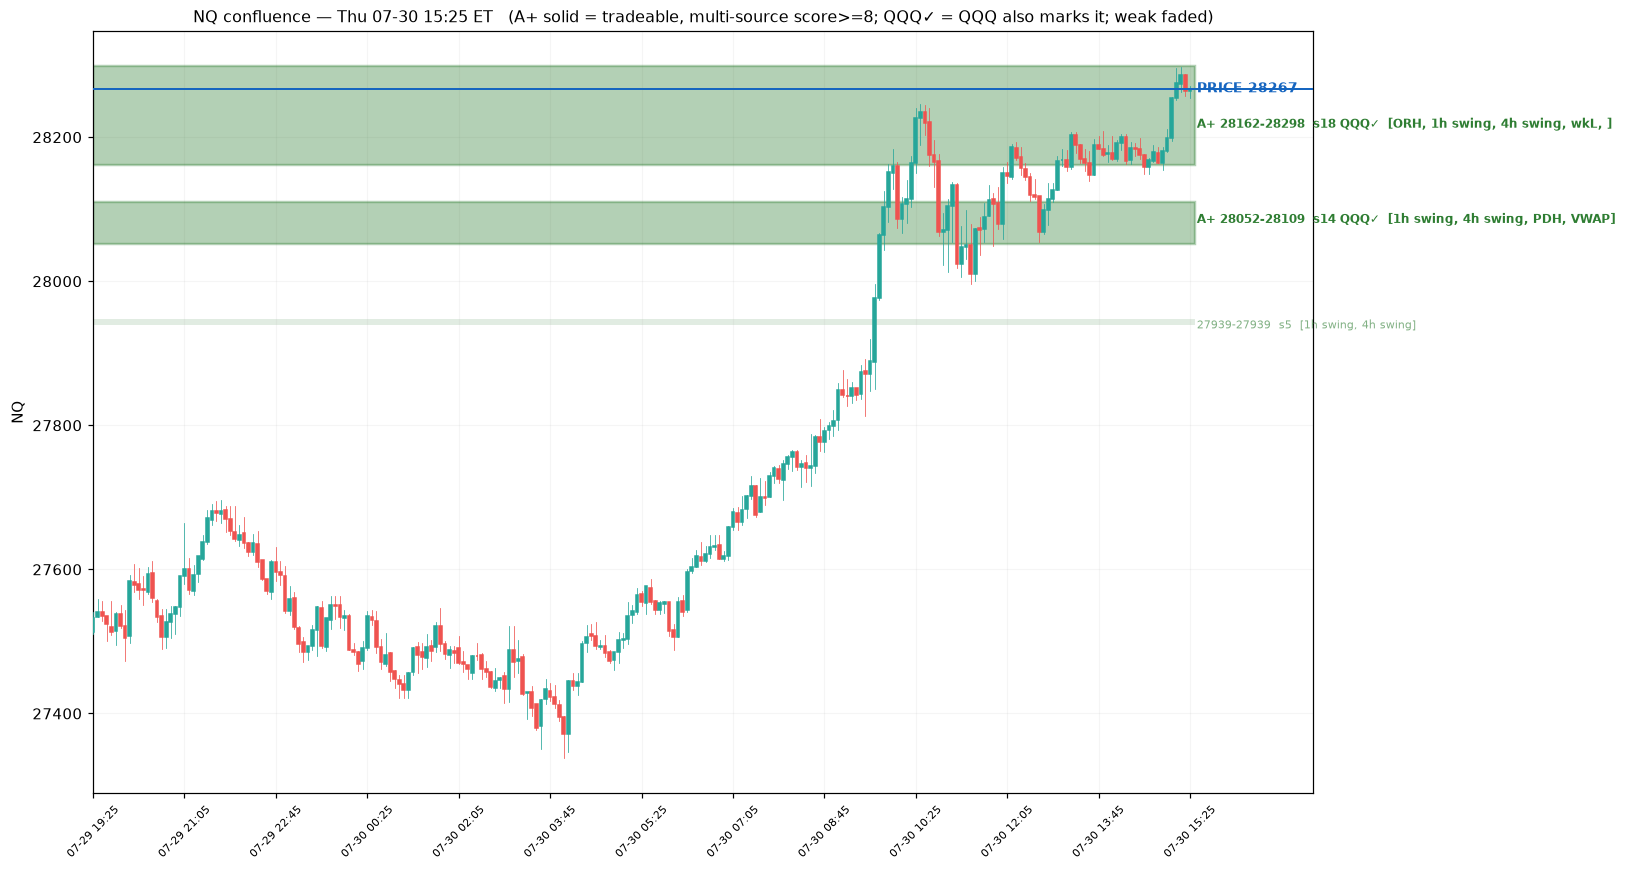
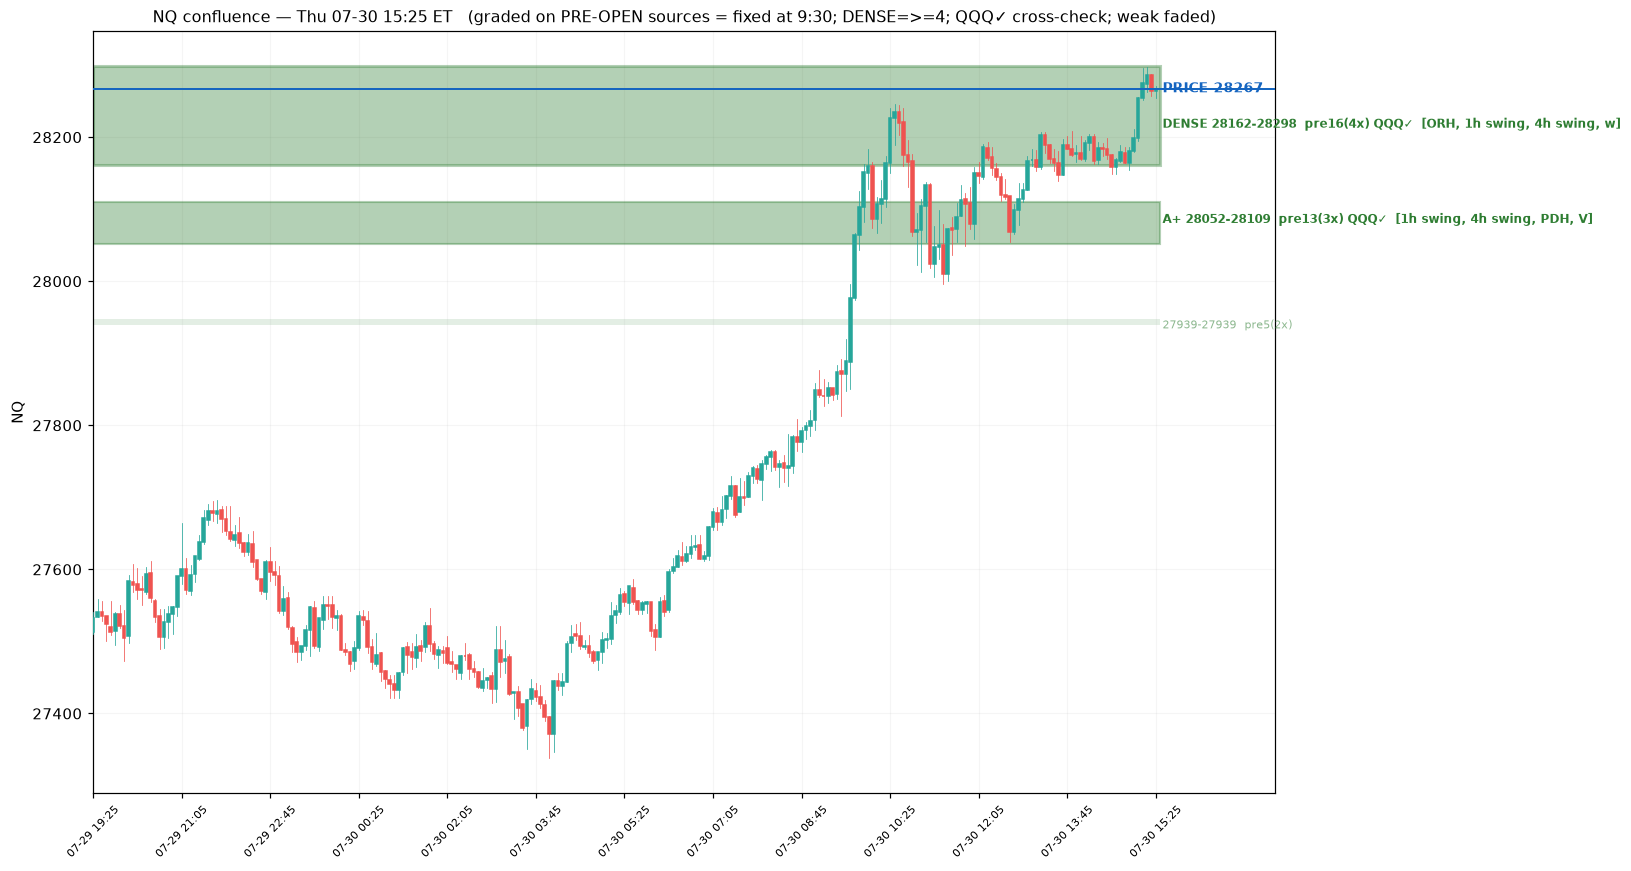
Grade confluence zones on PRE-OPEN sources only (fix after-the-fact inflation)
User caught it: intraday levels (VWAP/OR/dayH-dayL) were inflating zone score/
source-count during the day, so a zone read stronger at 3pm than at the open.
Fixed: build_zones now tracks pre-open score (pw) and pre-open #sources (pnt)
separately; the map GRADES on pre-open only (A+/DENSE fixed at 9:30) and shows
intraday levels as "+VWAP/dayH" context that cannot upgrade the grade. Backtest
edge was measured on pre-open zones, so the displayed grade is the validated one.

Proof (07-30): 28052-28100 grades identically at 08:45 pre-open and 15:25 live
(A+, 3x, [1h swing,4h swing,PDH]) - only a "+VWAP" context tag differs.

Claude-Session: https://claude.ai/code/session_016aQdjV8pEkud2m7UoLztFR

diff --git a/scripts/confluence.py b/scripts/confluence.py
@@ -103,11 +103,15 @@ def build_zones(m5, m30, h1, scale_pt=None):
         else:
             zones.append(cluster); cluster = [lv]
     zones.append(cluster)
+    INTRADAY = {"VWAP", "ORH", "ORL", "dayH", "dayL"}  # not knowable pre-open
     zi = []
     for z in zones:
         w = sum(x[2] for x in z)
+        pre = [x for x in z if x[1] not in INTRADAY]          # pre-open members only
+        pw = sum(x[2] for x in pre)
+        pnt = len({x[1] for x in pre})
         zi.append((sum(x[0] * x[2] for x in z) / w, min(x[0] for x in z),
-                   max(x[0] for x in z), w, ", ".join(dict.fromkeys(x[1] for x in z))))
+                   max(x[0] for x in z), w, ", ".join(dict.fromkeys(x[1] for x in z)), pw, pnt))
     return px, now, zi
 
 
@@ -119,9 +123,9 @@ def crossref_qqq(nq_px, nq_zi):
         return None, None
     q_px, _, q_zi = build_zones(q5, None, qh1)
     scale = nq_px / q_px
-    q_strong = [(p * scale, w, labs) for (p, lo, hi, w, labs) in q_zi if w >= 5]
+    q_strong = [(p * scale, w, labs) for (p, lo, hi, w, labs, pw, pnt) in q_zi if pw >= 5]
     confirmed = {}
-    for i, (price, lo, hi, w, labs) in enumerate(nq_zi):
+    for i, (price, lo, hi, w, labs, pw, pnt) in enumerate(nq_zi):
         for qp, qw, qlabs in q_strong:
             if lo - 20 <= qp <= hi + 20:
                 confirmed[i] = qp
@@ -143,44 +147,48 @@ def main():
     def ntypes(labs):
         return len({x.strip() for x in labs.split(",")})
 
-    WINDOW = 400  # pts: ignore zones farther than this - not intraday-relevant
-    zi = [z for z in zi_all if ntypes(z[4]) >= 2 and abs(z[0] - px) <= WINDOW]
+    # GRADE ON PRE-OPEN SOURCES ONLY (pnt = z[6], pw = z[5]) so the plan is the
+    # same one you'd have at 9:30. Intraday levels (VWAP/OR/dayH) are shown as
+    # "+context" but never upgrade the grade. Backtest edge was measured on
+    # pre-open zones only, so this is the honest, tradeable-at-open map.
+    INTRADAY = {"VWAP", "ORH", "ORL", "dayH", "dayL"}
+    WINDOW = 400
+    zi = [z for z in zi_all if z[6] >= 2 and abs(z[0] - px) <= WINDOW]  # >=2 PRE-OPEN sources
     above = sorted([z for z in zi if z[0] > px], key=lambda x: x[0])
     below = sorted([z for z in zi if z[0] <= px], key=lambda x: -x[0])
     conf_prices = set(round(confirmed[i]) for i in confirmed) if confirmed else set()
 
     def qflag(lo, hi):
-        if confirmed is None:
-            return ""
+        if confirmed is None: return ""
         return " Qs" if any(lo - 20 <= cp <= hi + 20 for cp in conf_prices) else ""
 
-    print(f"NQ CONFLUENCE MAP — {now:%a %m-%d %H:%M} ET   price {px:.0f}   "
-          f"(zones need >=2 sources & within {WINDOW}pt; A+ = score>=8)")
-    print(f"(Qs = QQQ also marks it - a cross-check; backtest: did NOT beat NQ-only, treat as neutral)\n")
-
-    # backtest (1229 events, null=88%): edge is modest and lives in DENSE zones
-    # (>=4 sources = 94% = +6 vs random); lone levels are worse than random.
-    def grade(w, labs):
-        nt = ntypes(labs)
-        if nt >= 4: return "DENSE"  # the real edge tier (+6 vs null)
-        if w >= 8: return "A+  "
-        if w >= 5: return "**  "
+    def grade(pw, pnt):   # backtest: DENSE (>=4 pre-open sources)=+6 vs null
+        if pnt >= 4: return "DENSE"
+        if pw >= 8: return "A+  "
+        if pw >= 5: return "**  "
         return "    "
 
-    print("RESISTANCE above (short zones):")
-    for price, lo, hi, w, labs in above[:4][::-1]:
-        print(f"  {grade(w,labs)}{qflag(lo,hi):>3} {lo:.0f}-{hi:.0f}  score {w:.1f} ({ntypes(labs)}x)  [{labs}]")
-    print(f"  ------ price {px:.0f} ------")
-    print("SUPPORT below (long zones):")
-    for price, lo, hi, w, labs in below[:4]:
-        print(f"  {grade(w,labs)}{qflag(lo,hi):>3} {lo:.0f}-{hi:.0f}  score {w:.1f} ({ntypes(labs)}x)  [{labs}]")
+    def fmt(z):
+        price, lo, hi, w, labs, pw, pnt = z
+        pre = ", ".join(l for l in labs.split(", ") if l not in INTRADAY)
+        intra = [l for l in labs.split(", ") if l in INTRADAY]
+        ctx = f"  +{'/'.join(intra)}" if intra else ""
+        return f"  {grade(pw,pnt)}{qflag(lo,hi):>3} {lo:.0f}-{hi:.0f}  pre-open {pw:.0f} ({pnt}x)  [{pre}]{ctx}"
 
-    # tradeable = A+ (score>=8 AND >=2 sources, already filtered into zi)
-    sa = next((z for z in above if z[3] >= 8), None)
-    sb = next((z for z in below if z[3] >= 8), None)
-    print("\nTRADEABLE (A+ only, score>=8, multi-source):")
-    if sb: print(f"  LONG off support {sb[1]:.0f}-{sb[2]:.0f} (s{sb[3]:.0f}{qflag(sb[1],sb[2])}) -> target {sa[1]:.0f}" if sa else f"  LONG off {sb[1]:.0f}-{sb[2]:.0f}")
-    if sa: print(f"  SHORT off resistance {sa[1]:.0f}-{sa[2]:.0f} (s{sa[3]:.0f}{qflag(sa[1],sa[2])}) -> target {sb[2]:.0f}" if sb else f"  SHORT off {sa[1]:.0f}-{sa[2]:.0f}")
+    print(f"NQ CONFLUENCE — {now:%a %m-%d %H:%M} ET   price {px:.0f}")
+    print("(graded on PRE-OPEN sources = fixed at 9:30; '+VWAP/dayH' = intraday context, "
+          "does NOT upgrade grade. DENSE=>=4 pre-open sources)\n")
+    print("RESISTANCE above (short):")
+    for z in above[:4][::-1]: print(fmt(z))
+    print(f"  ------ price {px:.0f} ------")
+    print("SUPPORT below (long):")
+    for z in below[:4]: print(fmt(z))
+
+    sa = next((z for z in above if z[5] >= 8), None)  # pre-open score >=8
+    sb = next((z for z in below if z[5] >= 8), None)
+    print("\nTRADEABLE (A+ pre-open, score>=8, >=2 sources):")
+    if sb: print(f"  LONG off support {sb[1]:.0f}-{sb[2]:.0f} -> target {sa[1]:.0f}" if sa else f"  LONG off {sb[1]:.0f}-{sb[2]:.0f}")
+    if sa: print(f"  SHORT off resistance {sa[1]:.0f}-{sa[2]:.0f} -> target {sb[2]:.0f}" if sb else f"  SHORT off {sa[1]:.0f}-{sa[2]:.0f}")
     if not sa and not sb: print("  none in range - stand aside")
 
     _chart(m5, above, below, px, now, zi, conf_prices, confirmed)
@@ -205,29 +213,29 @@ def _chart(m5, above, below, px, now, zi, conf_prices=None, confirmed=None):
         ax.add_patch(Rectangle((i - 0.3, min(r["open"], r["close"])), 0.6,
                                abs(r["close"] - r["open"]) + 0.2, facecolor=c, edgecolor=c, zorder=4))
     n = len(plot)
-    for price, lo, hi, w, labs in zi:
+    for price, lo, hi, w, labs, pw, pnt in zi:
         if hi < plot["low"].min() - 100 or lo > plot["high"].max() + 100:
             continue
         red = price > px
         col = "#d32f2f" if red else "#2e7d32"
-        conf = w >= 8 and is_conf(lo, hi)
-        band = max(hi - lo, 8)
-        strong = w >= 8  # A+ tradeable (multi-source already filtered upstream)
+        conf = pw >= 8 and is_conf(lo, hi)
+        strong = pw >= 8  # A+ tradeable on PRE-OPEN score
+        dense = pnt >= 4
         qmark = " QQQ✓" if conf else ""
         band = max(hi - lo, 8)
-        if strong:  # A+ : solid band, bold label
+        if strong:
+            lab = "DENSE" if dense else "A+"
             ax.add_patch(Rectangle((0, lo - 1), n, band + 2, facecolor=col, alpha=0.36,
-                                   edgecolor=col, lw=1.6, zorder=2))
-            ax.text(n + 0.5, price, f"A+ {lo:.0f}-{hi:.0f}  s{w:.0f}{qmark}  [{labs[:30]}]",
+                                   edgecolor=col, lw=2.0 if dense else 1.4, zorder=2))
+            ax.text(n + 0.5, price, f"{lab} {lo:.0f}-{hi:.0f}  pre{pw:.0f}({pnt}x){qmark}  [{labs[:26]}]",
                     color=col, va="center", fontsize=8, fontweight="bold")
         else:
-            ax.add_patch(Rectangle((0, lo), n, band, facecolor=col, alpha=0.14, edgecolor="none", zorder=1))
-            ax.text(n + 0.5, price, f"{lo:.0f}-{hi:.0f}  s{w:.0f}{qmark}  [{labs[:30]}]",
-                    color=col, va="center", fontsize=7, alpha=0.6)
+            ax.add_patch(Rectangle((0, lo), n, band, facecolor=col, alpha=0.13, edgecolor="none", zorder=1))
+            ax.text(n + 0.5, price, f"{lo:.0f}-{hi:.0f}  pre{pw:.0f}({pnt}x){qmark}", color=col, va="center", fontsize=7, alpha=0.55)
     ax.axhline(px, color="#1565c0", lw=1.3, zorder=5)
     ax.text(n + 0.5, px, f"PRICE {px:.0f}", color="#1565c0", va="center", fontsize=9, fontweight="bold")
     ax.set_title(f"NQ confluence — {now:%a %m-%d %H:%M} ET   "
-                 f"(A+ solid = tradeable, multi-source score>=8; QQQ✓ = QQQ also marks it; weak faded)", fontsize=10.5)
+                 f"(graded on PRE-OPEN sources = fixed at 9:30; DENSE=>=4; QQQ✓ cross-check; weak faded)", fontsize=10.5)
     tk = list(range(0, n, max(1, n // 12)))
     ax.set_xticks(tk); ax.set_xticklabels([plot.index[i].strftime("%m-%d %H:%M") for i in tk], rotation=45, fontsize=7.5)
     ax.set_xlim(0, n + 26); ax.set_ylabel("NQ"); ax.grid(alpha=0.12, zorder=0)
